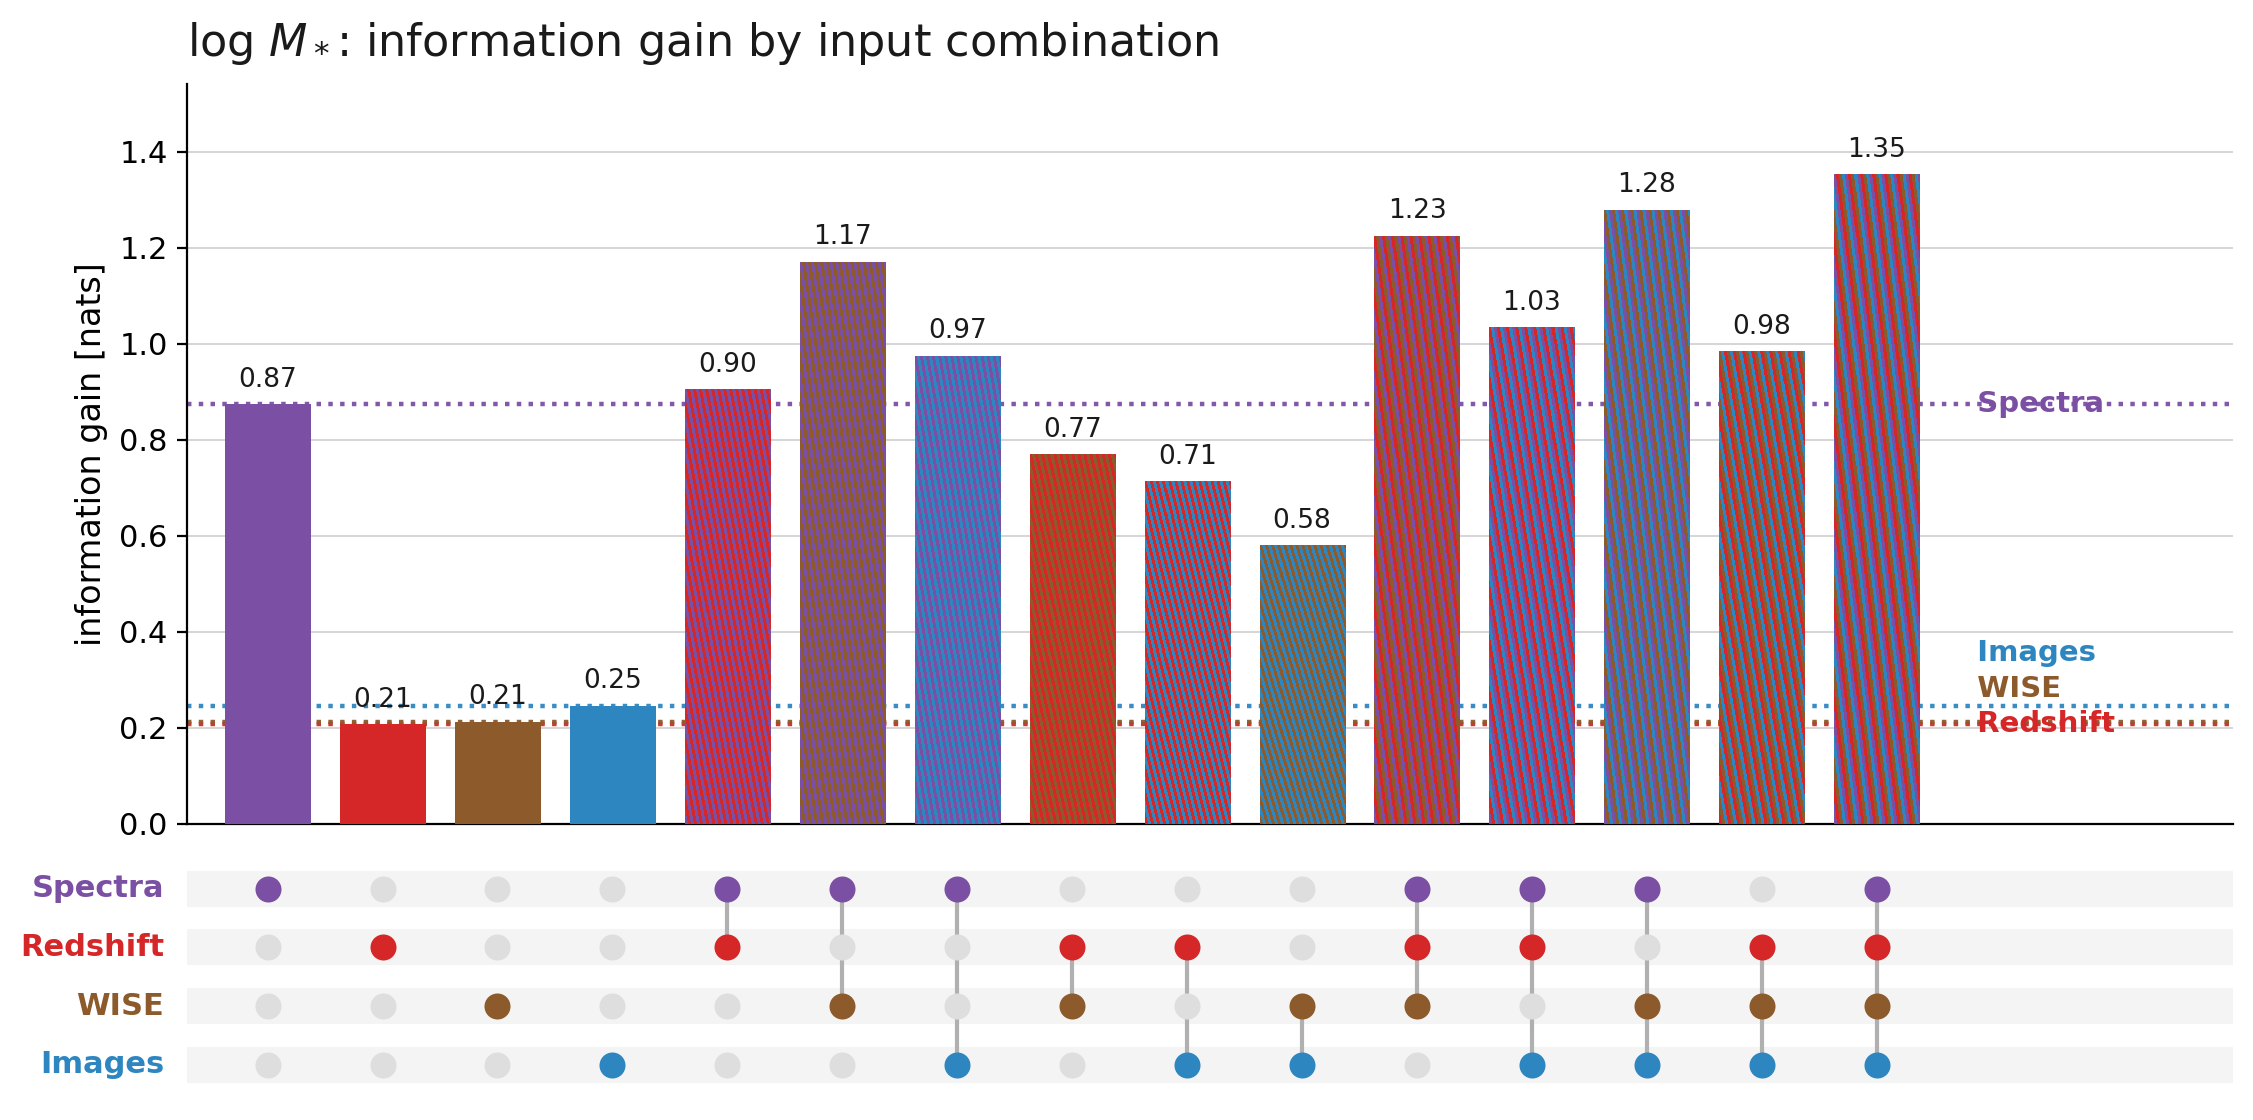
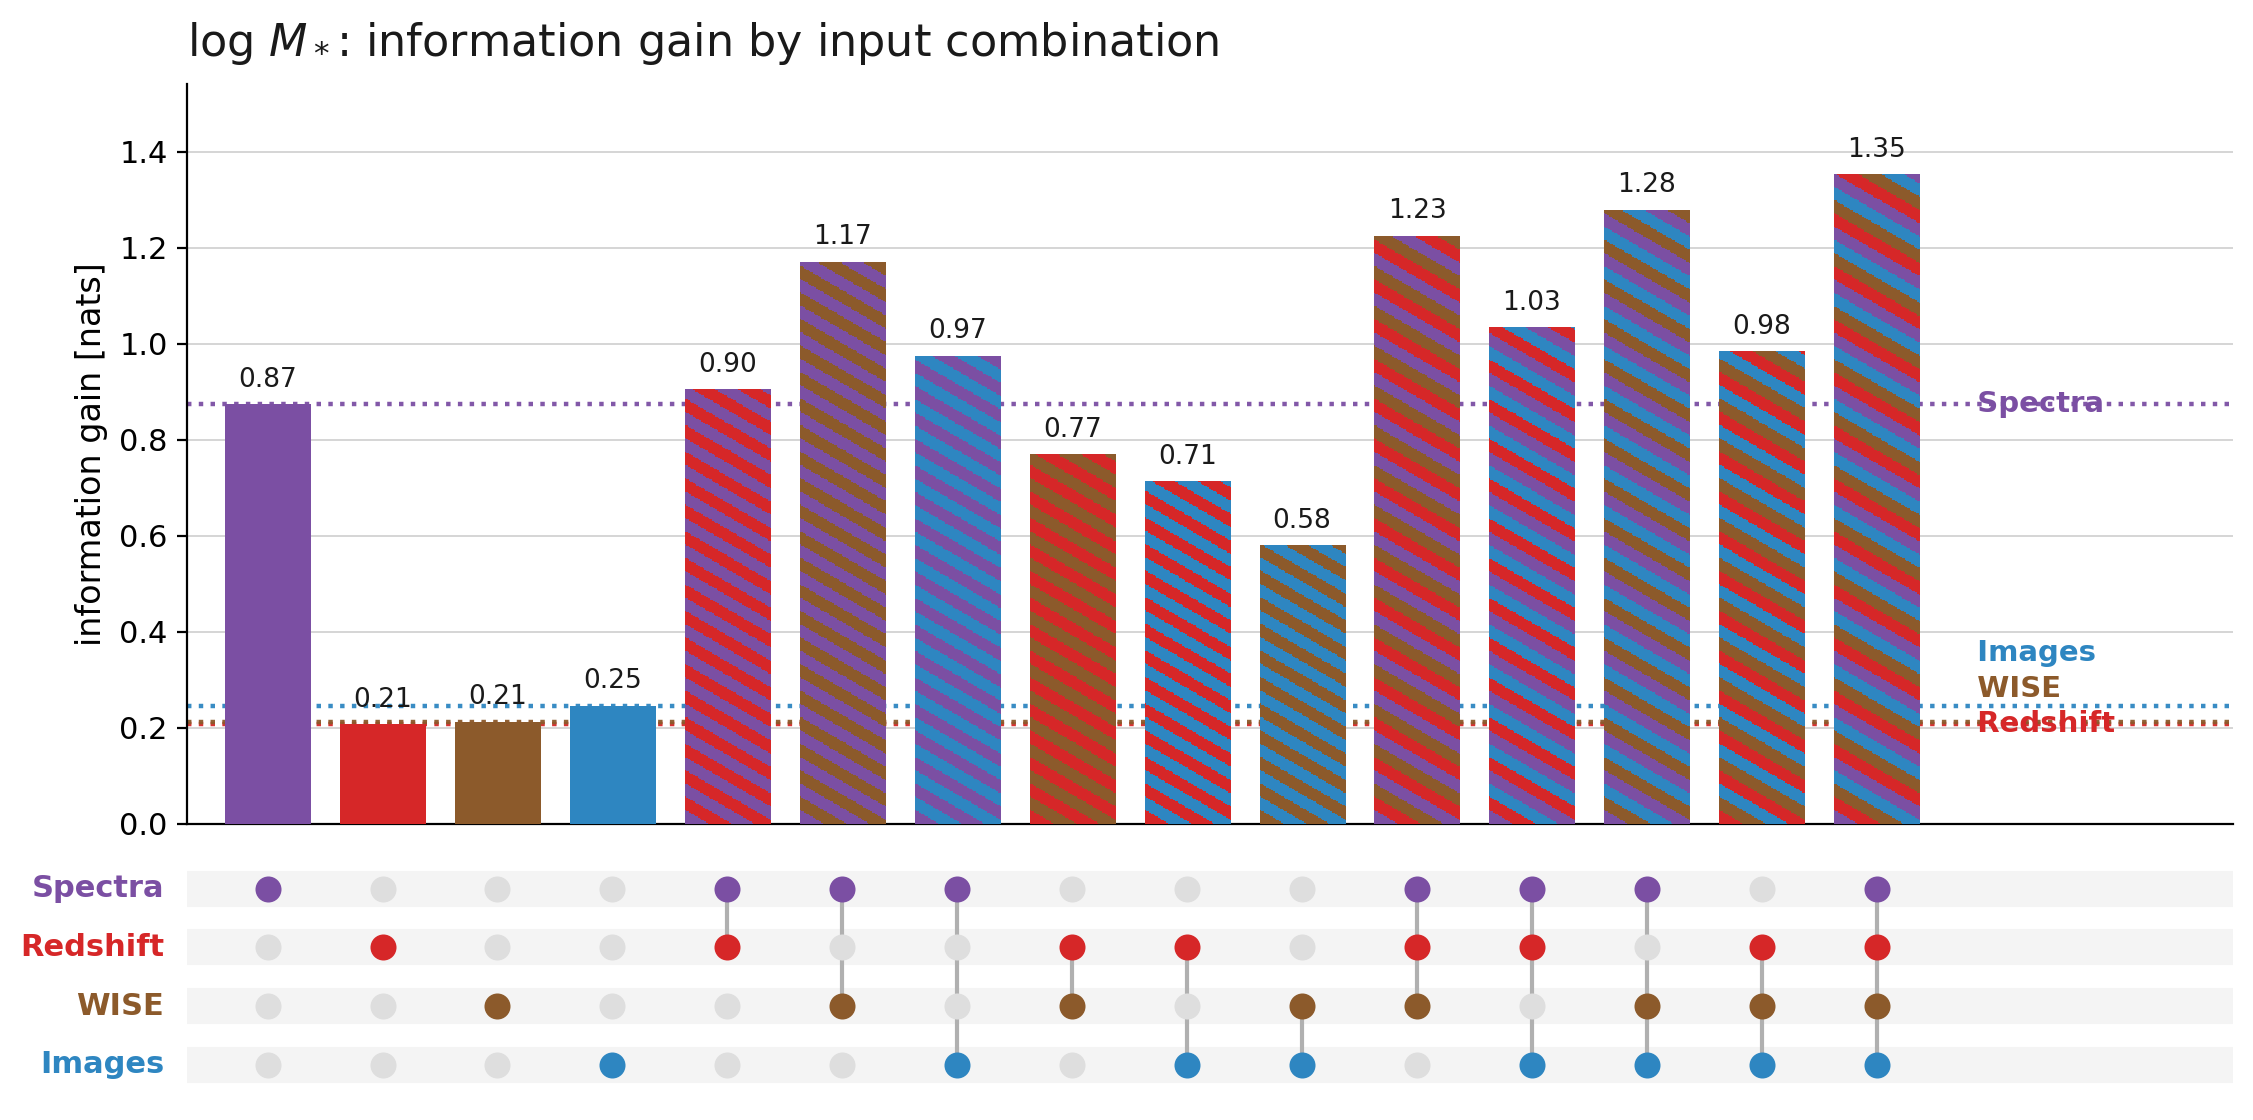
UpSet stripes: thick, and slanted the amount they claim to be
Stripes were generated in a fixed square grid and then stretched onto bars that
are ~7x taller than wide, so they rendered nearly vertical regardless of the
requested angle. The raster is now built in page space (inches) from the bar's
real on-screen size, so slope=1 is genuinely 45 degrees; slope=1.7 tilts further
over. Stripe width is now specified in inches (0.115) rather than grid pixels,
about 20x the previous effective thickness.

Axis limits are set before the bars are drawn, since the stripe geometry reads
transData.

Changed region(s): [[0.2796, 0.1562, 0.87, 0.75]]

diff --git a/docs/make_modality_upset.py b/docs/make_modality_upset.py
@@ -49,18 +49,30 @@ def key(combo: tuple[str, ...]) -> str:
     return "+".join(m for m in MODALITIES if m in combo)
 
 
-def striped_bar(ax, x, height, width, colors, stripe_px: int = 9) -> None:
-    """Fill a bar with diagonal stripes cycling through `colors`.
+def striped_bar(ax, x, height, width, colors, stripe_in: float = 0.115,
+                slope: float = 1.7, ppi: int = 160) -> None:
+    """Fill a bar with thick diagonal stripes cycling through `colors`.
 
-    matplotlib hatching cannot do multi-colour stripes, so paint a small RGBA
-    raster of diagonal bands and clip it to the bar rectangle.
+    matplotlib hatching cannot do multi-colour stripes, so paint an RGBA raster
+    of diagonal bands and clip it to the bar rectangle.
+
+    The raster is built in PAGE space (inches), not in a fixed square grid: bars
+    here are ~7x taller than they are wide, so a square pattern gets stretched
+    and the stripes come out nearly vertical. Sizing the grid to the bar's real
+    aspect makes `slope` mean what it says -- slope=1 is 45 degrees, higher tilts
+    further over. `stripe_in` is the stripe width in inches on the page.
     """
-    if height <= 0 or not np.isfinite(height):
+    if not np.isfinite(height) or height <= 0:
         return
-    n = 256
-    ii, jj = np.mgrid[0:n, 0:n]
-    band = ((ii + jj) // stripe_px) % len(colors)
-    rgba = np.zeros((n, n, 4))
+    dpi = ax.figure.dpi
+    p0 = ax.transData.transform((x - width / 2, 0.0))
+    p1 = ax.transData.transform((x + width / 2, height))
+    w_in, h_in = abs(p1[0] - p0[0]) / dpi, abs(p1[1] - p0[1]) / dpi
+    nx, ny = max(8, int(w_in * ppi)), max(8, int(h_in * ppi))
+    ii, jj = np.mgrid[0:ny, 0:nx]
+    sw = max(2, int(stripe_in * ppi))
+    band = ((jj + slope * ii).astype(int) // sw) % len(colors)
+    rgba = np.zeros((ny, nx, 4))
     for k, c in enumerate(colors):
         rgba[band == k] = matplotlib.colors.to_rgba(c)
     rect = Rectangle((x - width / 2, 0), width, height, transform=ax.transData)
@@ -73,6 +85,9 @@ def panel(ax, values: dict[str, float], order, title: str) -> None:
     xs = np.arange(len(order))
     vals = np.array([values.get(key(c), np.nan) for c in order], float)
     hi = np.nanmax(vals) if np.isfinite(vals).any() else 1.0
+    # limits FIRST: striped_bar reads transData to size its raster in page space
+    ax.set_xlim(-0.7, len(order) + 2.1)
+    ax.set_ylim(0, hi * 1.14)
     for x, combo, v in zip(xs, order, vals):
         striped_bar(ax, x, v, 0.74, [COLOR[m] for m in MODALITIES if m in combo])
         if np.isfinite(v):
@@ -96,8 +111,6 @@ def panel(ax, values: dict[str, float], order, title: str) -> None:
     ax.set_title(title, fontsize=16, color=INK, loc="left", pad=10)
     ax.grid(axis="y", color=GRID, lw=0.7, zorder=0)
     ax.set_axisbelow(True)
-    ax.set_xlim(-0.7, len(order) + 2.1)
-    ax.set_ylim(0, hi * 1.14)
     ax.set_xticks([])
     ax.tick_params(labelsize=11)
     for sp in ("top", "right"):
